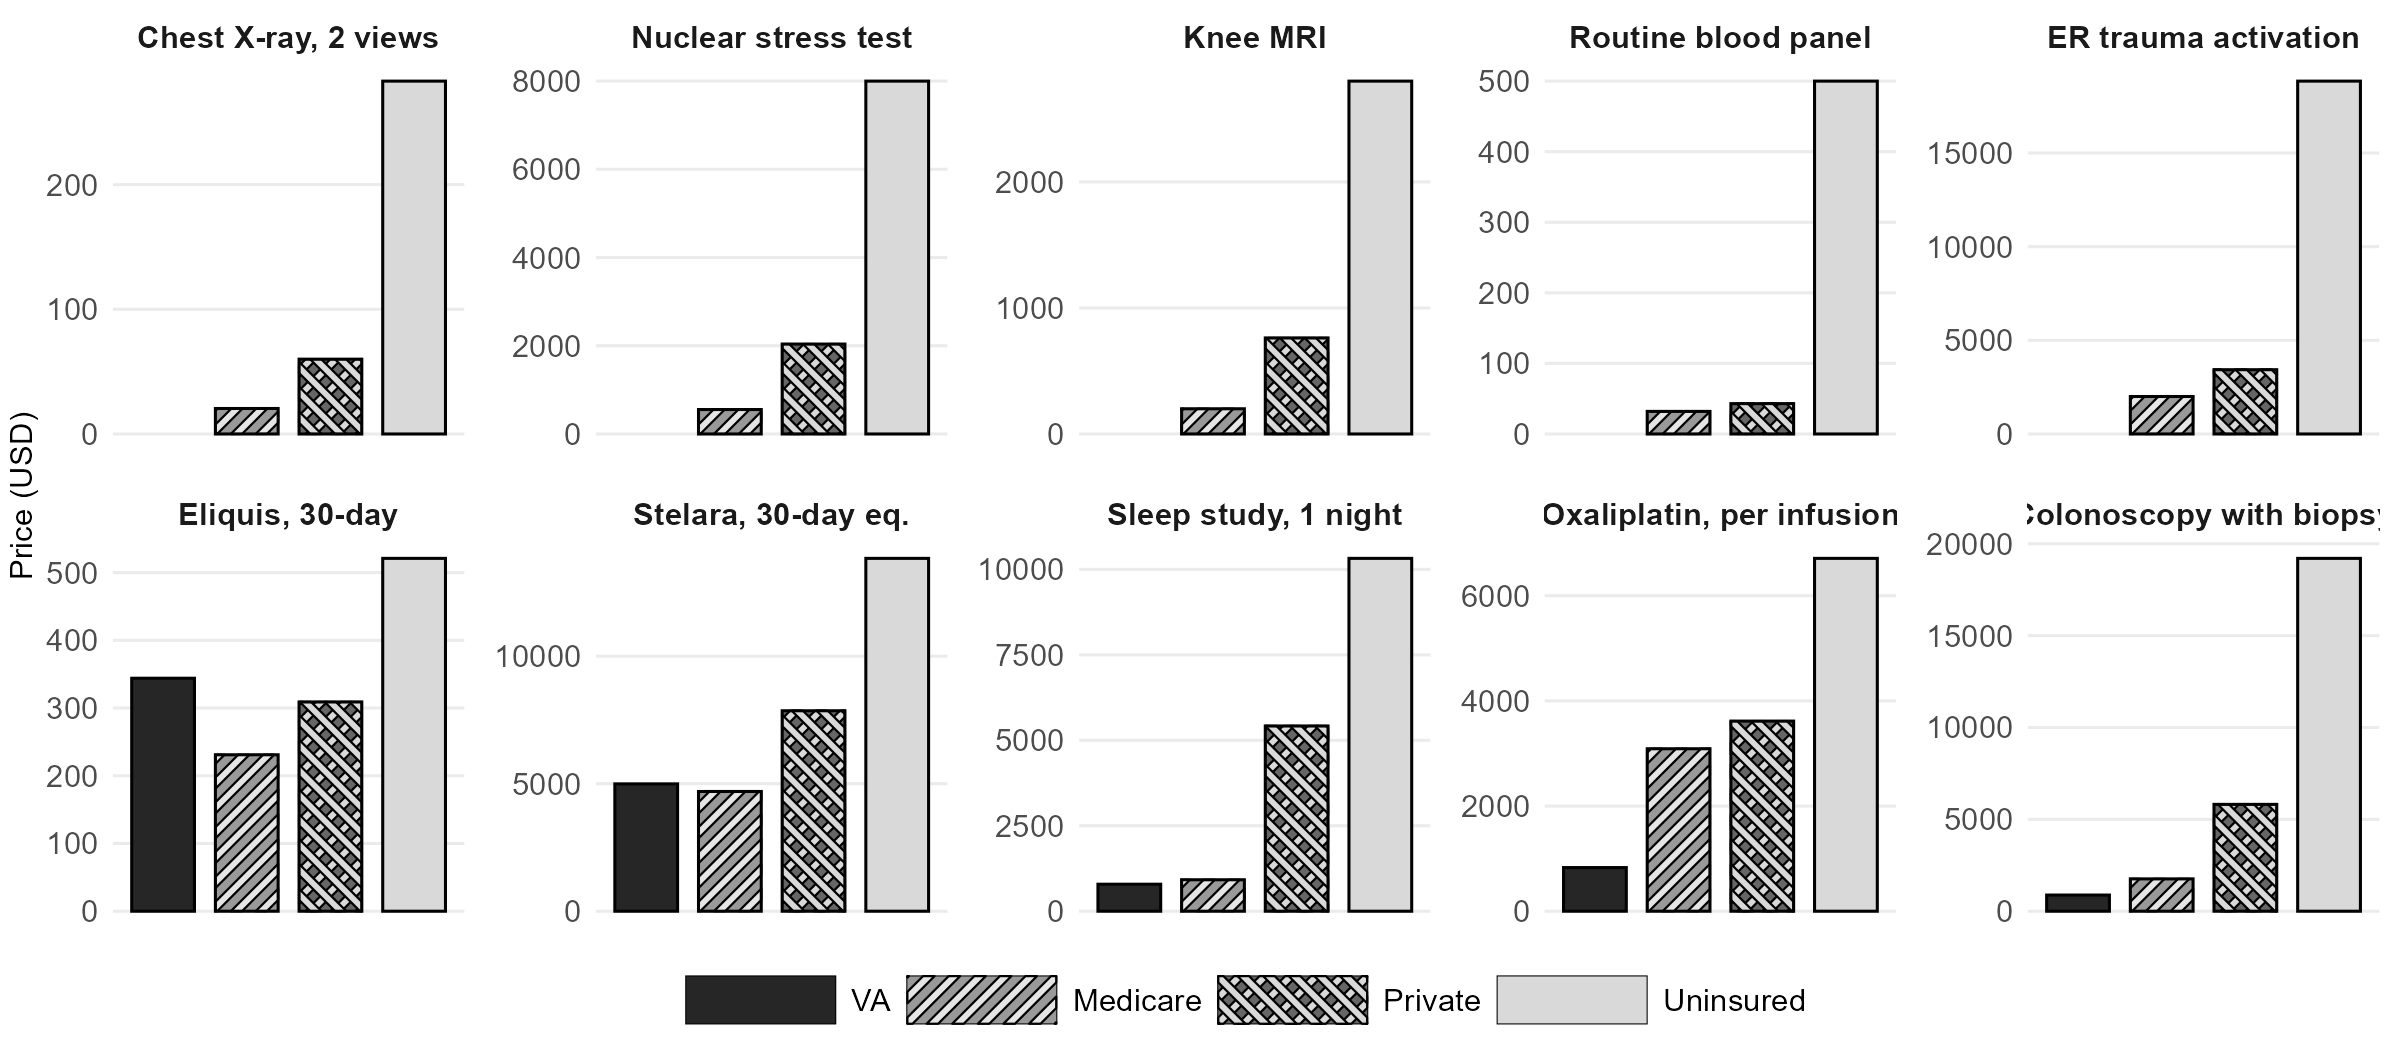
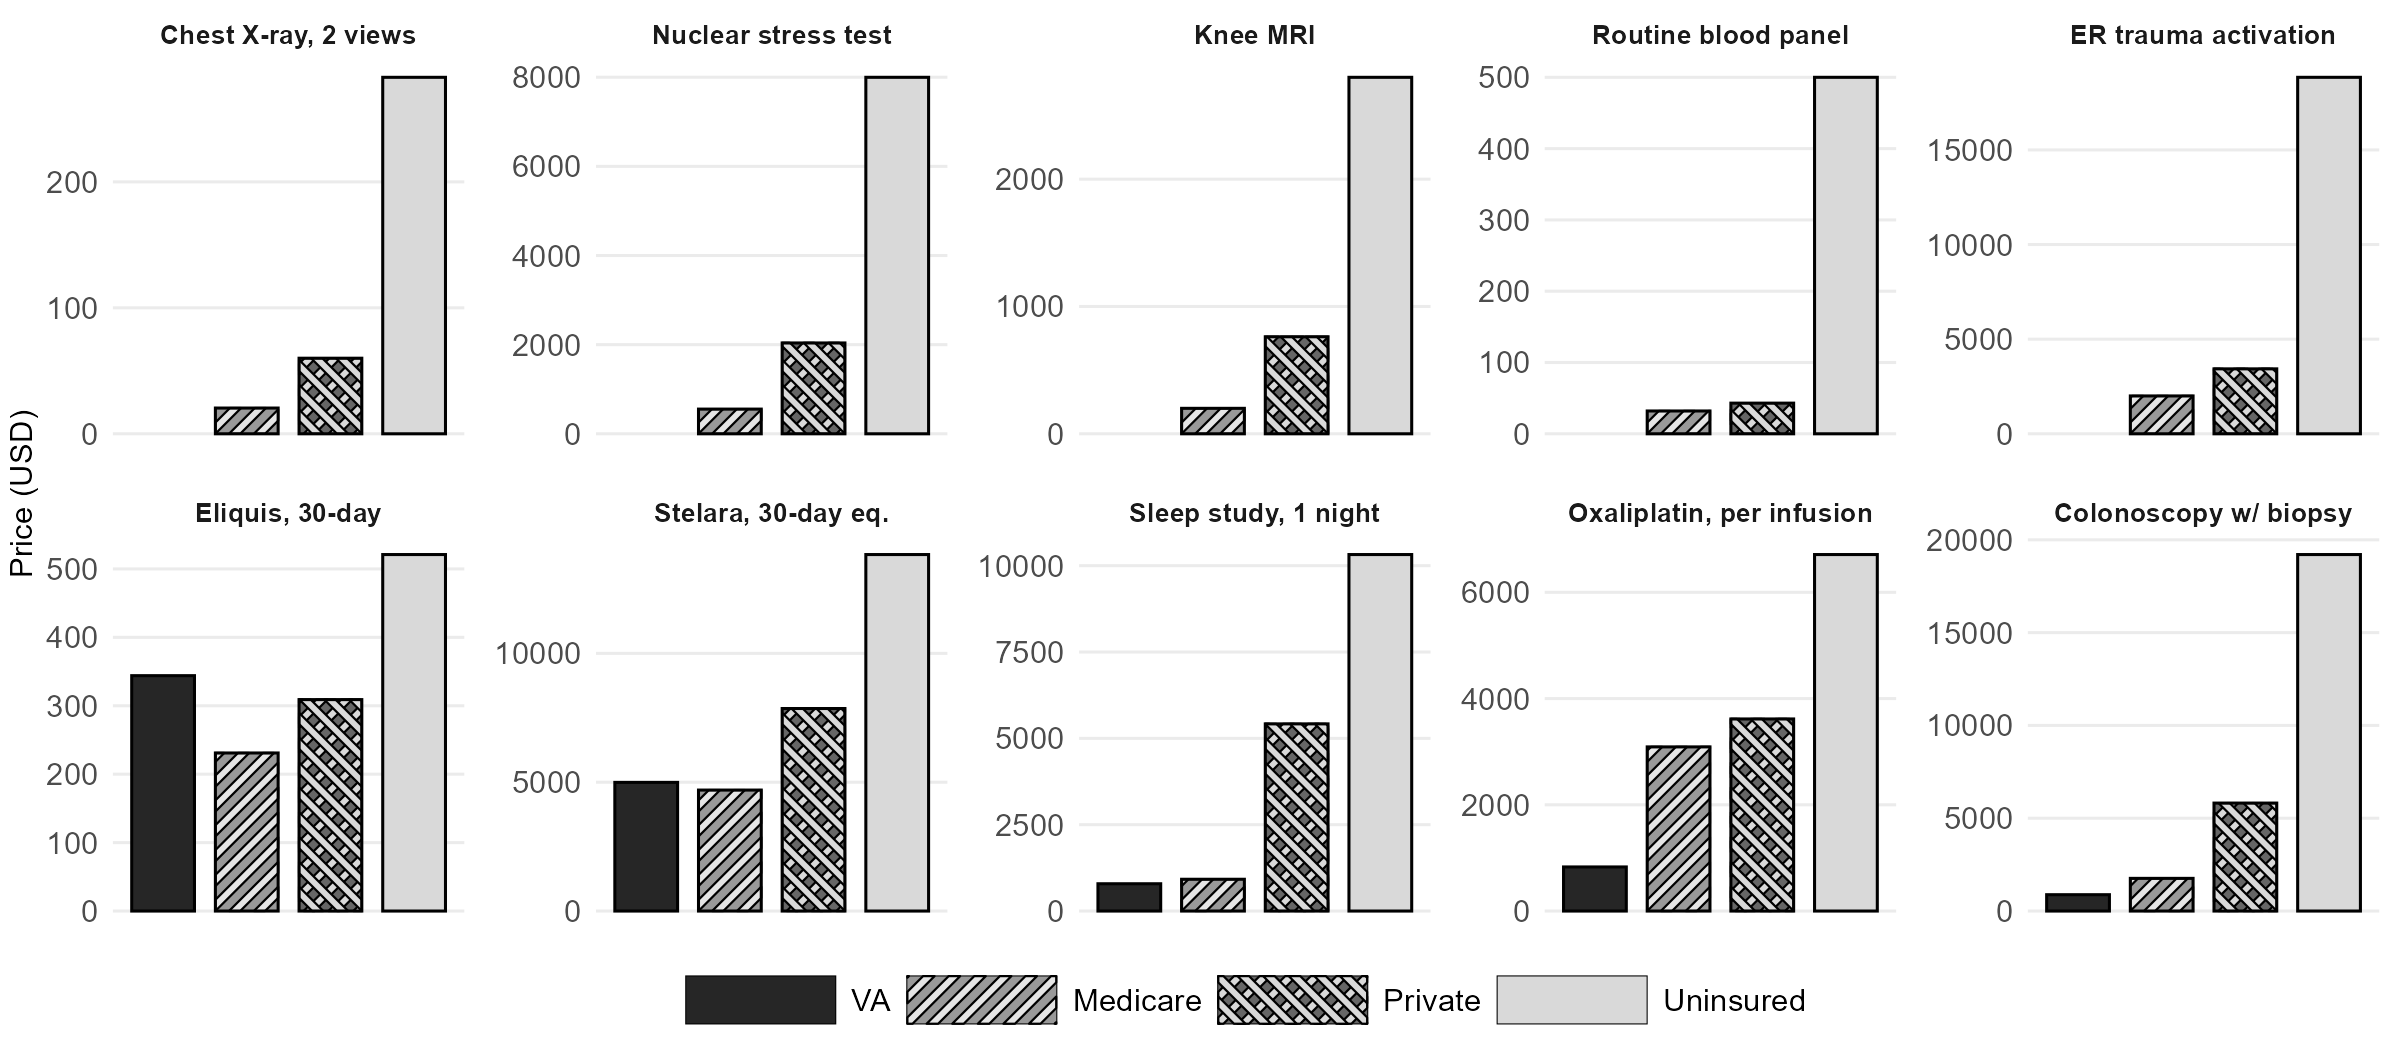
Update companion site: fix panel label reference, update figure PNG

diff --git a/docs/price-gaps.html b/docs/price-gaps.html
@@ -248,7 +248,7 @@
 <h2>Notes on scope and data vintage</h2>
 <p>Prices in US healthcare are not standardized, and direct comparisons are imperfect by nature. The following points are worth keeping in mind.</p>
 <ul>
-  <li><b>Drug rows (Panel A)</b> compare total amounts paid per unit of drug: VA FSS, Medicare negotiated (IRA), private-payer net of rebates, and uninsured list at retail.</li>
+  <li><b>Drug rows</b> compare total amounts paid per unit of drug: VA FSS, Medicare negotiated (IRA), private-payer net of rebates, and uninsured list at retail.</li>
   <li><b>Hospital and outpatient rows</b> compare the total payment (or chargemaster) for the same underlying service. Where the private cell differs from the uninsured cell, the difference reflects the insurer's negotiated discount off the hospital's list price.</li>
   <li><b>VA figures</b> are drawn from peer-reviewed VA cost-effectiveness or activity-based cost studies, inflated to 2024 dollars using the medical-care CPI where necessary. The VA does not publicly release CPT-level unit costs the way Medicare does; HERC's detailed cost estimates are restricted to VA researchers.</li>
   <li><b>Single-case anecdotes</b> (e.g., specific hospitals named in journalistic investigations) are used when they are the only public window into what a real patient faced. Where possible, the figure also shows a population-level benchmark for the same service.</li>